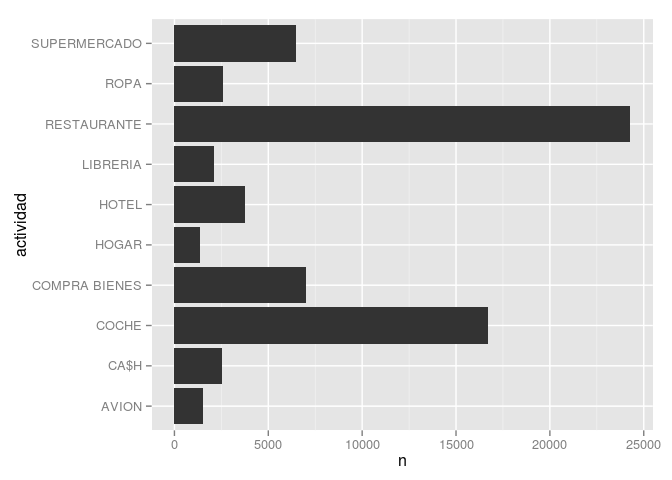
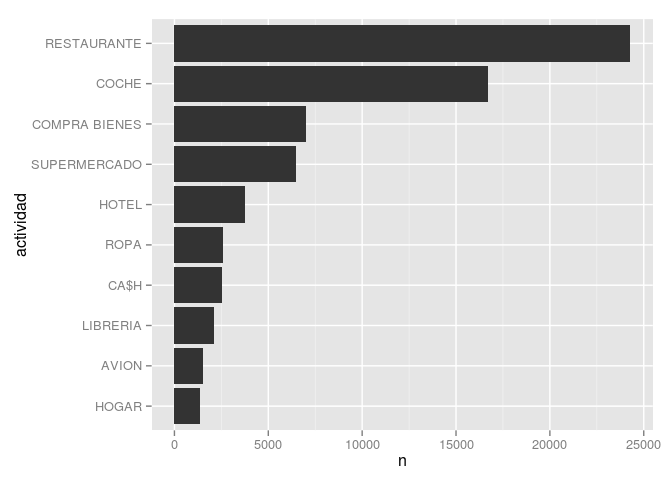
windows functions

diff --git a/R/tutorial-dplyr.md b/R/tutorial-dplyr.md
@@ -24,7 +24,7 @@ Como lo presenta su autor, Hadley Wickham, **[dplyr](https://github.com/hadley/d
 Trabajaremos sobre los siguientes datos:
 
 -   los movimientos de las tristemente famosas *tarjetas black* de Caja Madrid
--   !!! datos científicos pesados (1Gb)
+-   TO DO: datos científicos pesados (1Gb)
 
 **Requerimientos**: Es necesario un conocimiento básico de R y saber como instalar paquetes.
 
@@ -491,18 +491,18 @@ ggplot(res, aes(x=hora, y=total))+geom_bar(stat="identity")
 
 #### ¿cual son las 10 actividades más frecuentes?
 
-Truco: la función `n()` permite dentro `summarise()`, `mutate()` y `filter()` contar el numéro de registros.
-
 Respuesta:
 
 ``` {.r}
-res <-movimientos %>%
+res <- movimientos %>%
   group_by(actividad) %>%
   summarise(n = n()) %>%
   top_n(10)
 ## Selecting by n
 
-ggplot(res, aes(x=actividad, y=n)) +
+res$actividad <- reorder(res$actividad, res$n)
+
+ggplot(arrange(res, n), aes(x=actividad, y=n)) +
   geom_bar(stat="identity") + 
   coord_flip()
 ```
@@ -570,7 +570,6 @@ Respuesta:
 
 ``` {.r}
 all <- left_join(tbl_df(movimientos), miembros, by="nombre")
-all <- as.data.table(all)
 
 res <- all %>% filter(!is.na(actividad) & actividad != '' & organizacion %in% c("Izquierda Unida", "Partido Popular", "PSOE")) %>%
   group_by(organizacion, actividad) %>%
@@ -660,6 +659,42 @@ modelos %>%
     ## 6            PSOE    hora_num  -1.1319605  0.2969374 -3.812119
     ## Variables not shown: Pr...t.. (dbl)
 
+### Windows functions
+
+Estas funciones toman `n` argumentos para devolver `n` valores:
+
+-   **lag** / **lead**
+-   **min\_rank** / **dense\_rank** / **ntiles** / ...
+-   cumulative
+-   rolling (aún no esta implementado, usar `data.table`)
+
+#### movimientos separados por menos de 5 minutos de personas diferentes
+
+``` {.r}
+# añadimos un campo "datetime"
+all$t <- as.POSIXct(as.numeric(all$fecha) + all$hora*60*60 + all$minuto*60, origin="1970-01-01")
+
+all %>% arrange(t) %>%
+  filter(as.numeric(t -lag(t)) < 5*60, nombre != lag(nombre))
+```
+
+    ## Source: local data frame [26,940 x 11]
+    ## 
+    ##                            nombre      fecha hora minuto importe
+    ## 1        Miguel Blesa de la Parra 2003-01-01   11      2   64.25
+    ## 2  Carlos María Martínez Martínez 2003-01-01   11      3  376.00
+    ## 3     Francisco José Moure Bourio 2003-01-01   11     13   48.08
+    ## 4     Ignacio de Navasques Cobián 2003-01-01   11     13   42.00
+    ## 5  Ignacio del Río García de Sola 2003-01-01   11     13   50.00
+    ## 6              José Acosta Cubero 2003-01-01   11     13   94.78
+    ## 7             Pedro Bugidos Garay 2003-01-01   11     13   34.80
+    ## 8                Rubén Cruz Orive 2003-01-01   11     13  110.00
+    ## 9                Rubén Cruz Orive 2003-01-01   11     13  148.00
+    ## 10               Rubén Cruz Orive 2003-01-01   11     13   75.26
+    ## ..                            ...        ...  ...    ...     ...
+    ## Variables not shown: comercio (chr), actividad_completa (chr), actividad
+    ##   (fctr), funcion (fctr), organizacion (fctr), t (time)
+
 ### Benchmark
 
 #### Aggregación
@@ -684,7 +719,7 @@ bch1 <- microbenchmark(
 autoplot(bch1)
 ```
 
-![](tutorial-dplyr_files/figure-markdown_github/unnamed-chunk-26-1.png)
+![](tutorial-dplyr_files/figure-markdown_github/unnamed-chunk-27-1.png)
 
 #### Filtrage
 
@@ -698,7 +733,7 @@ res1 <- microbenchmark(
 plot(res)
 ```
 
-![](tutorial-dplyr_files/figure-markdown_github/unnamed-chunk-27-1.png)
+![](tutorial-dplyr_files/figure-markdown_github/unnamed-chunk-28-1.png)
 
 Nota: el orden tiene importancía:
 
@@ -765,15 +800,15 @@ res
 
     ## Unit: milliseconds
     ##   expr  min   lq mean median   uq  max neval
-    ##     dt  306  307  311    309  309  326    10
-    ##  dplyr  544  548 1084    779  998 3817    10
-    ##   base 1729 1737 2008   1744 2503 2890    10
+    ##     dt  304  306  337    331  358  410    10
+    ##  dplyr  607  768 1382    945 1570 4199    10
+    ##   base 1727 1748 2059   1798 2475 3040    10
 
 ``` {.r}
 autoplot(res) + expand_limits(x = 0)
 ```
 
-![](tutorial-dplyr_files/figure-markdown_github/unnamed-chunk-30-1.png)
+![](tutorial-dplyr_files/figure-markdown_github/unnamed-chunk-31-1.png)
 
 ### Misc
 
